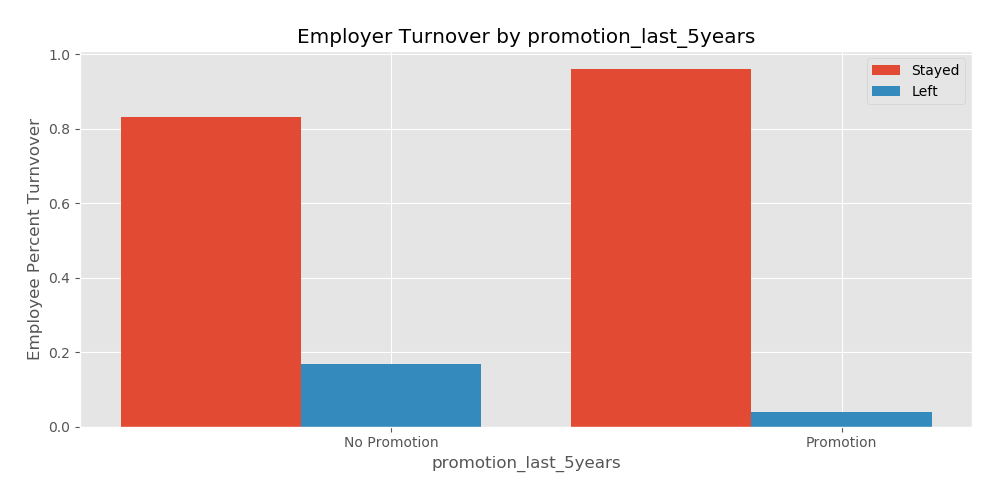
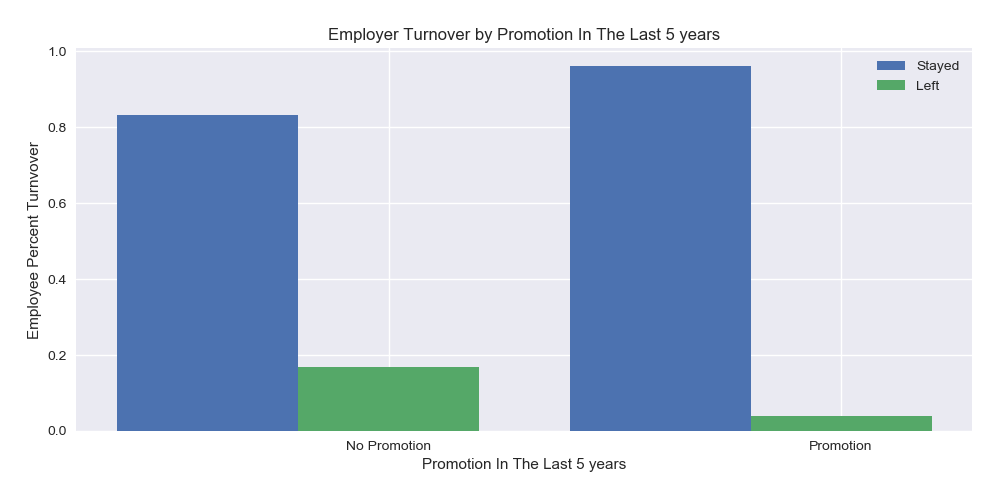
Updated data visualization

diff --git a/src/employee_turnover.py b/src/employee_turnover.py
@@ -6,25 +6,23 @@ from sklearn.metrics import confusion_matrix, roc_curve, auc
 from sklearn.ensemble import RandomForestClassifier
 from sklearn import tree
 import numpy as np
-from sklearn.metrics import recall_score, precision_score, precision_recall_curve
-plt.style.use('ggplot')
+from sklearn.metrics import recall_score, precision_score, precision_recall_curve, f1_score
+# from sklearn.metrics import plot_precision_recall_curve
+plt.style.use('seaborn')
 
 
 '''
 Under Construction - Not Ready for Deployment
 '''
 
-def load_n_clean_data(filepath, drop_leakage=True):
+def load_n_clean_data(filepath):
     '''
     loads and renames (cleans) the columns
     for the turnover file
     '''
 
     df = pd.read_csv(filepath)
-
-    if drop_leakage:
-        df.drop_duplicates(keep='first', inplace=True)
-
+    df.drop_duplicates(keep='first', inplace=True)
     rename_columns = {'satisfaction_level': 'satisfaction_level_percentage',\
                     'last_evaluation': 'last_evaluation_percentage',\
                     'time_spend_company': 'time_spend_company_years',\
@@ -44,11 +42,6 @@ class EmployeeTurnoverDatasets():
     def __init__(self, df):
 
         self.df = df
-        # if drop_leakage:
-        #     self.df.drop_duplicates(keep='first', inplace=True)
-        
-        # self.is_dropped = drop_duplicates
-        # self.features = list(self.df.columns)
         self.left_df = self.df[self.df['left']==1]
         self.stayed_df = self.df[self.df['left']==0]
         self.categorical_features = ['number_project', 'time_spend_company_years',\
@@ -57,14 +50,12 @@ class EmployeeTurnoverDatasets():
         self.salary_code = None
         self.department_code = None
         self.featurize_df = None
-        # self.transform_df()
         self._encode_featurized_columns()
 
     def transform_df(self, columns=['department', 'salary']):
         '''
         Create Featurized dataframe to pass in model
         '''
-        # self.featurize_df = self.df
 
         for column in columns:
             current = self.df[column].value_counts()
@@ -160,14 +151,17 @@ class EmployeeTurnoverClassifier(EmployeeTurnoverDatasets):
         self.X = None
         self.y = None
         self.features = None
-        # self.run_model()
+        self.f1_score = None
 
-    def run_model(self):
+    def run_model(self, hold_feature=None):
         '''
         runs the model and gets recall score.
         Paramater gives user the option to drop duplicates
         found in the data to compare scores.
         '''
+
+        if hold_feature != None:
+            dropped_feature = self.df.pop(hold_feature).values
 
         self.y = self.df.pop('left').values
         self.features = list(self.df.columns)
@@ -179,7 +173,8 @@ class EmployeeTurnoverClassifier(EmployeeTurnoverDatasets):
         self.feature_importance = {k: v for k, v in zip(self.features, self.model.feature_importances_)}
 
         self.recall = recall_score(self.y_test, self.y_pred)
-        self.precision = precision_score(self.y_test, self.y_pred)    
+        self.precision = precision_score(self.y_test, self.y_pred)
+        self.f1_score = f1_score(self.y_test, self.y_pred)    
 
     def compare_recall_scores(self):
         '''
@@ -189,6 +184,7 @@ class EmployeeTurnoverClassifier(EmployeeTurnoverDatasets):
         
         recall_feature_leakage = {}
         precision_feature_leakge = {}
+        f1_feature_leakage = {}
         # breakpoint()
         for idx in range(len(self.features)):
             local_feature = ['satisfaction_level_percentage', 'last_evaluation_percentage',\
@@ -204,11 +200,14 @@ class EmployeeTurnoverClassifier(EmployeeTurnoverDatasets):
         
             recall = recall_score(y_test, y_pred)
             precision = precision_score(y_test, y_pred)
+            f1 = f1_score(y_test, y_pred)
             recall_feature_leakage[data_leakage_feature] = round(recall,2)
             precision_feature_leakge[data_leakage_feature] = round(precision,2)
+            f1_feature_leakage[data_leakage_feature] = round(f1,2)
 
         self.feature_recall_comparison = recall_feature_leakage
         self.feature_precision_comparison = precision_feature_leakge
+        self.feature_f1score_comparison = f1_feature_leakage
 
 class EmployeeTurnoverVizualizations(EmployeeTurnoverClassifier):
     '''
@@ -218,6 +217,16 @@ class EmployeeTurnoverVizualizations(EmployeeTurnoverClassifier):
     
     def __init__(self, df, model):
         super().__init__(df, model)
+        self.labels =  ['Satisfaction Level Percentage',
+                        'last Performance Score',
+                        'Number Of Projects',
+                        'Average Monthly Working Hours',
+                        'Time Spent in Company in Years',
+                        'Accident at Work',
+                        'Promoted In The Last 5 years',
+                        'Department',
+                        'Salary']
+
 
     def plot_histograms(self):
         '''
@@ -227,11 +236,13 @@ class EmployeeTurnoverVizualizations(EmployeeTurnoverClassifier):
         ['satisfaction_level_percentage','last_evaluation_percentage','average_montly_hours']
         '''
 
-        for feat in self.continous_features:
+        columns = ['Satisfaction Level Percentage', 'last Performance Score', 'Average Monthly Working Hours']
+
+        for feat, col in zip(self.continous_features, columns):
             fig, ax = plt.subplots(figsize=(8,5))
             ax.hist(x=self.stayed_df[feat], stacked=True, label='stayed', alpha=0.8)
             ax.hist(x=self.left_df[feat], stacked=True, label='left', alpha=0.8)
-            ax.set_title(f'{feat}')
+            ax.set_title(f'{col} Comparison')
             ax.set_xlabel(f'{feat}')
             ax.set_ylabel('Frequency Count')
             plt.legend(loc='best')
@@ -246,8 +257,12 @@ class EmployeeTurnoverVizualizations(EmployeeTurnoverClassifier):
         features =  ['number_project', 'time_spend_company_years',\
                     'Work_accident', 'promotion_last_5years', 'department', 'salary']
         '''
+
+        cleaned_labels = ['Number Of Projects', 'Time Spent in Company in Years',\
+                  'Accident at Work', 'Promotion In The Last 5 years',\
+                  'Department','Salary']
     
-        for column in self.categorical_features:
+        for column, cleaned in zip(self.categorical_features, cleaned_labels):
             
             current_df = self.get_feature_turnover_ratio(column)
             stayed = current_df.loc[:,'stayed_percentage'].values
@@ -261,11 +276,11 @@ class EmployeeTurnoverVizualizations(EmployeeTurnoverClassifier):
             ax.bar(xlocs, left, width, label='Left')
             ax.set_xticks(ticks=range(len(stayed)))
             ax.set_xticklabels(labels)
-            ax.set_xlabel(f'{column}')
+            ax.set_xlabel(f'{cleaned}')
             ax.set_ylabel('Employee Percent Turnvover')
             ax.yaxis.grid(True)
             ax.legend(loc='best')
-            ax.set_title(f'Employer Turnover by {column}')
+            ax.set_title(f'Employer Turnover by {cleaned}')
             fig.tight_layout(pad=2)
             plt.savefig(f'Employer_Turnover_by_{column}_side_barcharts.png')
 
@@ -311,7 +326,6 @@ class EmployeeTurnoverVizualizations(EmployeeTurnoverClassifier):
     def plot_percentage_comparison(self):
         '''
         simple bar plot returning the turnover ratio
-        --UNDER CONSTRUCTION--
         '''
 
         percent_left = self.left_df.shape[0] / self.df.shape[0]
@@ -358,17 +372,21 @@ class EmployeeTurnoverVizualizations(EmployeeTurnoverClassifier):
         plots feature importance of rfc model
         '''
 
+        # breakpoint()
         imp_feat_df = pd.DataFrame([self.feature_importance])
         imp_feat_df.sort_values(by=0, axis=1, inplace=True)  
+
         
-        labels = list(imp_feat_df.columns)
+        labels = ['Promoted In The Last 5 Years', 'Accident at Work', 'Salary', 'Department',\
+                  'last Performance Score', 'Number Of Projects', 'Time Spent in Company in Years',\
+                  'Average Monthly Working Hours', 'Satisfaction Level Percentage']
         data = imp_feat_df.values
         data = data.flatten()
         y = np.arange(data.shape[0])
 
         width = 0.8
         fig, ax = plt.subplots(figsize=(8,5))
-        ax.barh(y, data, width, align='center')
+        ax.barh(y, data, width, color='green', alpha=0.5, align='center')
         ax.set_yticks(y)
         ax.set_yticklabels(labels)
         ax.xaxis.grid(True)
@@ -378,65 +396,74 @@ class EmployeeTurnoverVizualizations(EmployeeTurnoverClassifier):
         fig.tight_layout(pad=1)
         plt.savefig('perc_by_feat_imp.png')
 
-    def plot_recall_score_comparison(self):
+    def plot_f1_score_comparison(self):
         '''
         plots the comparision of recall score when we remove
         a feature to try and vizualize data leakage
         '''
-        # breakpoint()
-        labels = list(self.feature_recall_comparison.keys())
-        data = list(self.feature_recall_comparison.values())
+
+       
+        labels = self.labels
+        data = list(self.feature_f1score_comparison.values())
         N = len(data)
         fig, ax = plt.subplots(figsize=(10,5))
         width = 0.8
         tickLocations = np.arange(N)
-        ax.bar(tickLocations, data, width, linewidth=3.0, align='center')
+        ax.bar(tickLocations, data, width, color='green', alpha=0.5, linewidth=3.0, align='center')
+        ax.axhline(y=min(data), linestyle='--', color='red')
         ax.set_xticks(ticks=tickLocations)
         ax.set_xticklabels(labels)
         plt.setp(ax.get_xticklabels(), rotation=-30, ha="left",
              rotation_mode="anchor")
         ax.set_xlim(min(tickLocations)-0.6,\
                     max(tickLocations)+0.6)
-        ax.set_xlabel('Recall Scores')
+        ax.set_xlabel('F1 Scores')
         ax.set_ylabel('Percentage')
         ax.set_yticks(np.linspace(0,1,6))
         ax.yaxis.grid(True)
-        ax.set_title('Recall Scores Comparing Feature Extraction')
+        ax.set_title('F1 Scores Comparing Features')
         fig.tight_layout(pad=1)
-        plt.savefig('feature_recall_comparison.png')
+        plt.savefig('feature_F1_comparison.png')
 
+    # def plot_f1_score(self):
 
-def plot_recall_scores(before, after):
+    #     disp = plot_precision_recall_curve(self.model, self.X_test, self.y_test)
+    #     disp.ax_.set_title('2-class Precision-Recall curve: '
+    #                'AP={0:0.2f}'.format(average_precision))
+
+def plot_f1_scores(before, after):
     '''
     run different classes (one before drop and one after drop)
     plots recall scores in bar chart
     '''
 
-    recall_scores_arr = np.array([before.recall, after.recall])
-    labels = ['Recall Before', 'Recall After']
-    data = recall_scores_arr
-    N = len(recall_scores_arr)
+    f1_scores_arr = np.array([before, after])
+    labels = ['F1 Before', 'F1 After']
+    data = f1_scores_arr
+    N = len(f1_scores_arr)
     fig, ax = plt.subplots(figsize=(8,5))
     width = 0.8
     tickLocations = np.arange(N)
-    ax.bar(tickLocations, data, width, linewidth=3.0, align='center')
+    ax.bar(tickLocations, data, width, color='green', alpha=0.5, linewidth=3.0, align='center')
+    ax.axhline(y=min(data), linestyle='--', color='red')
     ax.set_xticks(ticks=tickLocations)
     ax.set_xticklabels(labels)
     ax.set_xlim(min(tickLocations)-0.6,\
                 max(tickLocations)+0.6)
-    ax.set_xlabel('Recall Scores')
+    ax.set_xlabel('F1 Scores')
     ax.set_ylabel('Percentage')
     ax.set_yticks(np.linspace(0,1,6))
     ax.yaxis.grid(True)
-    ax.set_title('Recall Scores Before and After Data Leakage Exposed')
+    ax.set_title('F1 Scores Before and After Data Leakage Exposed')
     fig.tight_layout(pad=1)
-    plt.savefig('Recall_b_a_data_leakage.png')
+    plt.savefig('F1_b_a_data_leakage.png')
 
 def run_all_models():
     '''
     runs all/different models that were tested
     and returns recall score.
     to be continued.
+    --UNDER CONSTRUCTION--
     '''
     pass    
 
@@ -444,71 +471,23 @@ def main():
     '''
     runs Everything function so below we can do one call
     '''
-
-    # load data and instantiate class
-    dataset = load_n_clean_data('../data/turnover.csv')
-    turnover = EmployeeTurnoverVizualizations(dataset, RandomForestClassifier())
-    turnover_w_leakage = EmployeeTurnoverVizualizations(dataset, RandomForestClassifier())
-
-    # EDA
-    turnover.df
-    turnover.salary_code
-    turnover.department_code
-    turnover.plot_percentage_comparison()
-    turnover.plot_histograms()
-    turnover.plot_feature_turnover_barcharts()
-    turnover.plot_corr_matrix()
-
-    # Run RandomForestClassifier Model
-    turnover.transform_df()
-    turnover_w_leakage.transform_df()
-    turnover_w_leakage.run_model()
-    turnover.run_model()
-
-    # Data Vizualization
-    turnover.plot_ROC_curve()
-    turnover_w_leakage.plot_ROC_curve()
-    turnover.plot_confusion_matrix()
-    turnover_w_leakage.plot_confusion_matrix()
-    turnover.plot_feat_importances()
-    turnover.compare_recall_scores()
-    turnover.plot_recall_score_comparison()
-    plot_recall_scores(turnover_w_leakage, turnover)
-
+    pass
 
 if __name__=='__main__':
-    # load data and instantiate class
-    dataset = load_n_clean_data('../data/turnover.csv')
-    turnover = EmployeeTurnoverVizualizations(dataset, RandomForestClassifier())
-    # turnover_w_leakage = EmployeeTurnoverVizualizations(dataset, RandomForestClassifier(), drop_duplicates=False)
-
-    # EDA
-    # turnover.df
-    # turnover.salary_code
-    # turnover.department_code
-    # turnover.plot_percentage_comparison()
-    # turnover.plot_histograms()
-    # turnover.plot_feature_turnover_barcharts()
-    # turnover.plot_corr_matrix()
-
-    # Run RandomForestClassifier Model
-    turnover.transform_df()
-    # turnover_w_leakage.transform_df()
-    # breakpoint()
-    # turnover_w_leakage.run_model()
-    turnover.run_model()
-
-    # Data Vizualization
-    # turnover.plot_ROC_curve()
-    # turnover_w_leakage.plot_ROC_curve()
-    # turnover.plot_confusion_matrix()
-    # turnover_w_leakage.plot_confusion_matrix()
-    # turnover.plot_feat_importances()
+    data = load_n_clean_data('../data/turnover.csv')
+    turnover = EmployeeTurnoverVizualizations(data, RandomForestClassifier())
+    
+    # modeling
+    # turnover.transform_df()
+    # turnover.run_model()
     # turnover.compare_recall_scores()
-    # turnover.plot_recall_score_comparison()
+    # turnover.plot_f1_score_comparison()
+    # before_leakage = turnover.f1_score
+    # after_leakage = turnover.feature_f1score_comparison['time_spend_company_years']
+    # plot_f1_scores(before_leakage, after_leakage)
+    # turnover.plot_feat_importances()
+    # turnover.plot_histograms()
+    turnover.plot_feature_turnover_barcharts()
+    plt.show()
 
-    dataset2 = load_n_clean_data('../data/turnover.csv', drop_leakage=False)
-    turnover_w_leakage = EmployeeTurnoverVizualizations(dataset2, RandomForestClassifier())
-    turnover_w_leakage.transform_df()
-    turnover_w_leakage.run_model()
-    plot_recall_scores(turnover_w_leakage, turnover)
+    #expose data leakage
